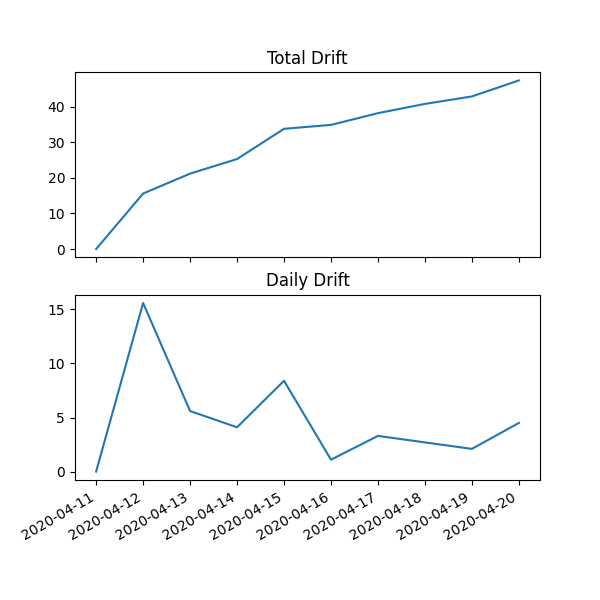
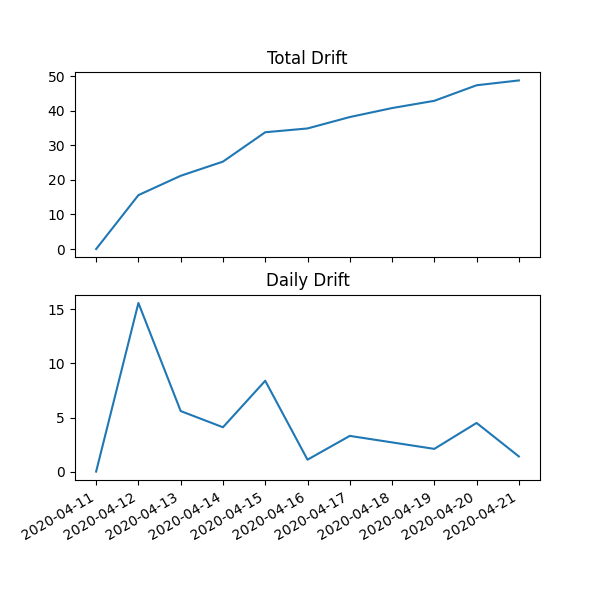
Tue Apr 21 15:30:13 EDT 2020

diff --git a/README.md b/README.md
@@ -1,10 +1,11 @@
 # MMR Drift Status
 
-**Last Updated (UTC):** 2020-04-20 21:15:12.422803
+**Last Updated (UTC):** 2020-04-21 19:30:12.742456
 ![Figure 1](/images/fig1.png)
 ![Figure 2](/images/fig2.png)
 |date| min| max| mean| drift_daily| drift_total| median| stdev|
 |:---|:---|:---|:---|:---|:---|:---|:--- |
+|2020-04-21| 2999| 3214| 3043.5| 1.4| 48.8| 3031.0| 40.6|
 |2020-04-20| 2996| 3199| 3042.0| 4.5| 47.4| 3030.0| 39.5|
 |2020-04-19| 2989| 3199| 3037.5| 2.1| 42.9| 3024.0| 40.6|
 |2020-04-18| 2985| 3248| 3035.4| 2.7| 40.8| 3023.0| 41.6|
